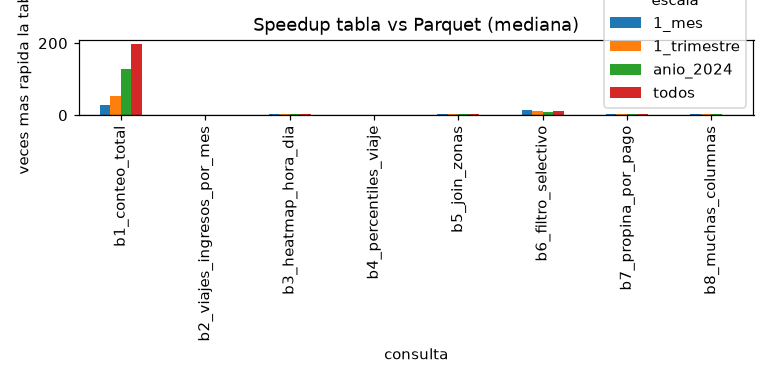
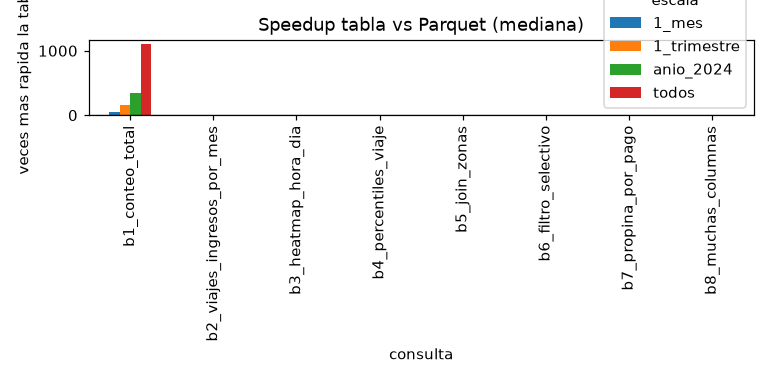
bench: re-ejecutar benchmark con 3 anios (121 M filas)
Se conserva la ejecucion 2024+2026 como *_2024_2026 para el Ejercicio 6.

diff --git a/docs/resultados/06_benchmark.md b/docs/resultados/06_benchmark.md
@@ -1,61 +1,61 @@
 # Resultados del benchmark Parquet vs tabla DuckDB
 
-Generado con `python scripts/benchmark.py --repeticiones 5` el 2026-10-07 02:06. DuckDB con 10 hilos. `primera_s` = primera ejecucion en una conexion nueva; `mediana_s` = mediana de las 5 repeticiones siguientes. `speedup` = mediana Parquet / mediana tabla.
+Generado con `python scripts/benchmark.py --repeticiones 5` el 2026-10-07 02:36. DuckDB con 4 hilos. `primera_s` = primera ejecucion en una conexion nueva; `mediana_s` = mediana de las 5 repeticiones siguientes. `speedup` = mediana Parquet / mediana tabla.
 
 ## Costo de materializar (por escala)
 
 | escala | archivos | filas | parquet_mib | tabla_mib | carga_s |
 |---|---|---|---|---|---|
-| 1_mes | 2 | 3,765,161 | 62.1 | 127.3 | 0.87 |
-| 1_trimestre | 6 | 11,199,059 | 184.8 | 386 | 1.8 |
-| anio_2024 | 24 | 41,829,938 | 676.1 | 1,406 | 6.16 |
-| todos | 40 | 71,870,407 | 1,171.7 | 2,418.5 | 10.05 |
+| 1_mes | 2 | 3,765,161 | 62.1 | 127.8 | 1.16 |
+| 1_trimestre | 6 | 11,199,059 | 184.8 | 386.3 | 2.6 |
+| anio_2024 | 24 | 41,829,938 | 676.1 | 1,452 | 10.65 |
+| todos | 64 | 121,184,384 | 1,977 | 4,184.8 | 31.59 |
 
 ## Tiempo por consulta, escala y estrategia
 
 | escala | filas | consulta | parquet_primera_s | parquet_mediana_s | tabla_primera_s | tabla_mediana_s | speedup |
 |---|---|---|---|---|---|---|---|
-| 1_mes | 3,765,161 | b1_conteo_total | 0.0046 | 0.0034 | 0.0004 | 0.0001 | 34 |
-| 1_mes | 3,765,161 | b2_viajes_ingresos_por_mes | 0.0137 | 0.0132 | 0.0147 | 0.0113 | 1.17 |
-| 1_mes | 3,765,161 | b3_heatmap_hora_dia | 0.1121 | 0.1163 | 0.046 | 0.0316 | 3.68 |
-| 1_mes | 3,765,161 | b4_percentiles_viaje | 0.2973 | 0.2648 | 0.1881 | 0.1775 | 1.49 |
-| 1_mes | 3,765,161 | b5_join_zonas | 0.1293 | 0.1311 | 0.0508 | 0.0322 | 4.07 |
-| 1_mes | 3,765,161 | b6_filtro_selectivo | 0.0363 | 0.0324 | 0.0112 | 0.0021 | 15.43 |
-| 1_mes | 3,765,161 | b7_propina_por_pago | 0.1275 | 0.1305 | 0.0567 | 0.0361 | 3.61 |
-| 1_mes | 3,765,161 | b8_muchas_columnas | 0.0803 | 0.0809 | 0.0516 | 0.024 | 3.37 |
-| 1_trimestre | 11,199,059 | b1_conteo_total | 0.0071 | 0.0062 | 0.0006 | 0.0001 | 62 |
-| 1_trimestre | 11,199,059 | b2_viajes_ingresos_por_mes | 0.0216 | 0.0217 | 0.0369 | 0.0291 | 0.75 |
-| 1_trimestre | 11,199,059 | b3_heatmap_hora_dia | 0.206 | 0.2111 | 0.1975 | 0.0901 | 2.34 |
-| 1_trimestre | 11,199,059 | b4_percentiles_viaje | 0.9426 | 0.8885 | 0.7067 | 0.7031 | 1.26 |
-| 1_trimestre | 11,199,059 | b5_join_zonas | 0.2146 | 0.2221 | 0.1499 | 0.0892 | 2.49 |
-| 1_trimestre | 11,199,059 | b6_filtro_selectivo | 0.0588 | 0.0566 | 0.0426 | 0.0055 | 10.29 |
-| 1_trimestre | 11,199,059 | b7_propina_por_pago | 0.2278 | 0.2252 | 0.1599 | 0.1036 | 2.17 |
-| 1_trimestre | 11,199,059 | b8_muchas_columnas | 0.1451 | 0.1376 | 0.1333 | 0.0668 | 2.06 |
-| anio_2024 | 41,829,938 | b1_conteo_total | 0.0186 | 0.0186 | 0.0015 | 0.0001 | 186 |
-| anio_2024 | 41,829,938 | b2_viajes_ingresos_por_mes | 0.0811 | 0.0662 | 0.1761 | 0.0805 | 0.82 |
-| anio_2024 | 41,829,938 | b3_heatmap_hora_dia | 0.6923 | 0.633 | 1.1819 | 0.3241 | 1.95 |
-| anio_2024 | 41,829,938 | b4_percentiles_viaje | 3.4215 | 3.2758 | 3.5221 | 3.0691 | 1.07 |
-| anio_2024 | 41,829,938 | b5_join_zonas | 0.708 | 0.6996 | 1.3043 | 0.3266 | 2.14 |
-| anio_2024 | 41,829,938 | b6_filtro_selectivo | 0.1755 | 0.1624 | 0.3963 | 0.0211 | 7.7 |
-| anio_2024 | 41,829,938 | b7_propina_por_pago | 0.7403 | 0.7527 | 1.0653 | 0.3895 | 1.93 |
-| anio_2024 | 41,829,938 | b8_muchas_columnas | 0.4567 | 0.4358 | 0.7469 | 0.2275 | 1.92 |
-| todos | 71,870,407 | b1_conteo_total | 0.0373 | 0.0345 | 0.0031 | 0.0002 | 172.5 |
-| todos | 71,870,407 | b2_viajes_ingresos_por_mes | 0.1318 | 0.1117 | 0.3534 | 0.1386 | 0.81 |
-| todos | 71,870,407 | b3_heatmap_hora_dia | 1.1821 | 1.1641 | 2.5437 | 0.6248 | 1.86 |
-| todos | 71,870,407 | b4_percentiles_viaje | 5.4398 | 4.9777 | 6.9937 | 4.4641 | 1.12 |
-| todos | 71,870,407 | b5_join_zonas | 1.6053 | 1.5779 | 2.9087 | 0.7749 | 2.04 |
-| todos | 71,870,407 | b6_filtro_selectivo | 0.3583 | 0.3242 | 1.0233 | 0.0297 | 10.92 |
-| todos | 71,870,407 | b7_propina_por_pago | 1.662 | 1.6396 | 2.4475 | 0.8721 | 1.88 |
-| todos | 71,870,407 | b8_muchas_columnas | 0.9418 | 0.9662 | 1.9721 | 0.5885 | 1.64 |
+| 1_mes | 3,765,161 | b1_conteo_total | 0.0044 | 0.0029 | 0.0004 | 0.0001 | 29 |
+| 1_mes | 3,765,161 | b2_viajes_ingresos_por_mes | 0.0107 | 0.0101 | 0.0217 | 0.0174 | 0.58 |
+| 1_mes | 3,765,161 | b3_heatmap_hora_dia | 0.1015 | 0.1097 | 0.0849 | 0.0689 | 1.59 |
+| 1_mes | 3,765,161 | b4_percentiles_viaje | 0.271 | 0.2594 | 0.2083 | 0.186 | 1.39 |
+| 1_mes | 3,765,161 | b5_join_zonas | 0.1316 | 0.1461 | 0.0924 | 0.069 | 2.12 |
+| 1_mes | 3,765,161 | b6_filtro_selectivo | 0.0278 | 0.0297 | 0.0143 | 0.0035 | 8.49 |
+| 1_mes | 3,765,161 | b7_propina_por_pago | 0.1298 | 0.1418 | 0.0966 | 0.0752 | 1.89 |
+| 1_mes | 3,765,161 | b8_muchas_columnas | 0.0889 | 0.085 | 0.0729 | 0.0504 | 1.69 |
+| 1_trimestre | 11,199,059 | b1_conteo_total | 0.011 | 0.01 | 0.0007 | 0.0001 | 100 |
+| 1_trimestre | 11,199,059 | b2_viajes_ingresos_por_mes | 0.0312 | 0.0312 | 0.0526 | 0.0421 | 0.74 |
+| 1_trimestre | 11,199,059 | b3_heatmap_hora_dia | 0.3198 | 0.3246 | 0.2603 | 0.1832 | 1.77 |
+| 1_trimestre | 11,199,059 | b4_percentiles_viaje | 0.9391 | 0.8615 | 0.7967 | 0.7315 | 1.18 |
+| 1_trimestre | 11,199,059 | b5_join_zonas | 0.3295 | 0.3844 | 0.2671 | 0.1838 | 2.09 |
+| 1_trimestre | 11,199,059 | b6_filtro_selectivo | 0.0742 | 0.0733 | 0.0423 | 0.0086 | 8.52 |
+| 1_trimestre | 11,199,059 | b7_propina_por_pago | 0.3716 | 0.3662 | 0.2689 | 0.2108 | 1.74 |
+| 1_trimestre | 11,199,059 | b8_muchas_columnas | 0.239 | 0.2322 | 0.219 | 0.1658 | 1.4 |
+| anio_2024 | 41,829,938 | b1_conteo_total | 0.0477 | 0.0413 | 0.0014 | 0.0001 | 413 |
+| anio_2024 | 41,829,938 | b2_viajes_ingresos_por_mes | 0.132 | 0.1303 | 0.2906 | 0.1702 | 0.77 |
+| anio_2024 | 41,829,938 | b3_heatmap_hora_dia | 1.4026 | 1.2898 | 1.5108 | 0.7307 | 1.77 |
+| anio_2024 | 41,829,938 | b4_percentiles_viaje | 4.3243 | 4.1444 | 4.3851 | 3.3467 | 1.24 |
+| anio_2024 | 41,829,938 | b5_join_zonas | 1.5921 | 1.5342 | 1.5124 | 0.7806 | 1.97 |
+| anio_2024 | 41,829,938 | b6_filtro_selectivo | 0.3606 | 0.3186 | 0.2764 | 0.0323 | 9.86 |
+| anio_2024 | 41,829,938 | b7_propina_por_pago | 1.6168 | 1.5353 | 1.4435 | 0.8699 | 1.76 |
+| anio_2024 | 41,829,938 | b8_muchas_columnas | 0.9905 | 0.9839 | 1.0481 | 0.5715 | 1.72 |
+| todos | 121,184,384 | b1_conteo_total | 0.1336 | 0.1245 | 0.0035 | 0.0001 | 1,245 |
+| todos | 121,184,384 | b2_viajes_ingresos_por_mes | 0.4036 | 0.3988 | 0.7822 | 0.4741 | 0.84 |
+| todos | 121,184,384 | b3_heatmap_hora_dia | 3.9261 | 3.7879 | 4.6161 | 2.111 | 1.79 |
+| todos | 121,184,384 | b4_percentiles_viaje | 11.4547 | 10.8354 | 13.7775 | 10.3904 | 1.04 |
+| todos | 121,184,384 | b5_join_zonas | 5.5642 | 4.786 | 6.11 | 2.2402 | 2.14 |
+| todos | 121,184,384 | b6_filtro_selectivo | 1.4679 | 0.9754 | 1.5764 | 0.1074 | 9.08 |
+| todos | 121,184,384 | b7_propina_por_pago | 5.055 | 4.4445 | 5.6054 | 2.4957 | 1.78 |
+| todos | 121,184,384 | b8_muchas_columnas | 3.0131 | 2.6241 | 3.8045 | 1.6539 | 1.59 |
 
 ## Resumen por escala (suma de medianas de las 8 consultas)
 
 | escala | filas | parquet_s | tabla_s | speedup | carga_s | ejecuciones_para_amortizar_carga |
 |---|---|---|---|---|---|---|
-| 1_mes | 3,765,161 | 0.773 | 0.315 | 2.45 | 0.87 | 1.9 |
-| 1_trimestre | 11,199,059 | 1.769 | 1.087 | 1.63 | 1.8 | 2.6 |
-| anio_2024 | 41,829,938 | 6.044 | 4.439 | 1.36 | 6.16 | 3.8 |
-| todos | 71,870,407 | 10.796 | 7.493 | 1.44 | 10.05 | 3 |
+| 1_mes | 3,765,161 | 0.785 | 0.471 | 1.67 | 1.16 | 3.7 |
+| 1_trimestre | 11,199,059 | 2.283 | 1.526 | 1.5 | 2.6 | 3.4 |
+| anio_2024 | 41,829,938 | 9.978 | 6.502 | 1.53 | 10.65 | 3.1 |
+| todos | 121,184,384 | 27.977 | 19.473 | 1.44 | 31.59 | 3.7 |
 
 Todas las consultas devolvieron el mismo resultado en ambas estrategias: si.
 

diff --git a/docs/resultados/06_benchmark_2024_2026.md b/docs/resultados/06_benchmark_2024_2026.md
@@ -1,0 +1,64 @@
+# Resultados del benchmark Parquet vs tabla DuckDB
+
+Generado con `python scripts/benchmark.py --repeticiones 5` el 2026-10-07 02:06. DuckDB con 10 hilos. `primera_s` = primera ejecucion en una conexion nueva; `mediana_s` = mediana de las 5 repeticiones siguientes. `speedup` = mediana Parquet / mediana tabla.
+
+## Costo de materializar (por escala)
+
+| escala | archivos | filas | parquet_mib | tabla_mib | carga_s |
+|---|---|---|---|---|---|
+| 1_mes | 2 | 3,765,161 | 62.1 | 127.3 | 0.87 |
+| 1_trimestre | 6 | 11,199,059 | 184.8 | 386 | 1.8 |
+| anio_2024 | 24 | 41,829,938 | 676.1 | 1,406 | 6.16 |
+| todos | 40 | 71,870,407 | 1,171.7 | 2,418.5 | 10.05 |
+
+## Tiempo por consulta, escala y estrategia
+
+| escala | filas | consulta | parquet_primera_s | parquet_mediana_s | tabla_primera_s | tabla_mediana_s | speedup |
+|---|---|---|---|---|---|---|---|
+| 1_mes | 3,765,161 | b1_conteo_total | 0.0046 | 0.0034 | 0.0004 | 0.0001 | 34 |
+| 1_mes | 3,765,161 | b2_viajes_ingresos_por_mes | 0.0137 | 0.0132 | 0.0147 | 0.0113 | 1.17 |
+| 1_mes | 3,765,161 | b3_heatmap_hora_dia | 0.1121 | 0.1163 | 0.046 | 0.0316 | 3.68 |
+| 1_mes | 3,765,161 | b4_percentiles_viaje | 0.2973 | 0.2648 | 0.1881 | 0.1775 | 1.49 |
+| 1_mes | 3,765,161 | b5_join_zonas | 0.1293 | 0.1311 | 0.0508 | 0.0322 | 4.07 |
+| 1_mes | 3,765,161 | b6_filtro_selectivo | 0.0363 | 0.0324 | 0.0112 | 0.0021 | 15.43 |
+| 1_mes | 3,765,161 | b7_propina_por_pago | 0.1275 | 0.1305 | 0.0567 | 0.0361 | 3.61 |
+| 1_mes | 3,765,161 | b8_muchas_columnas | 0.0803 | 0.0809 | 0.0516 | 0.024 | 3.37 |
+| 1_trimestre | 11,199,059 | b1_conteo_total | 0.0071 | 0.0062 | 0.0006 | 0.0001 | 62 |
+| 1_trimestre | 11,199,059 | b2_viajes_ingresos_por_mes | 0.0216 | 0.0217 | 0.0369 | 0.0291 | 0.75 |
+| 1_trimestre | 11,199,059 | b3_heatmap_hora_dia | 0.206 | 0.2111 | 0.1975 | 0.0901 | 2.34 |
+| 1_trimestre | 11,199,059 | b4_percentiles_viaje | 0.9426 | 0.8885 | 0.7067 | 0.7031 | 1.26 |
+| 1_trimestre | 11,199,059 | b5_join_zonas | 0.2146 | 0.2221 | 0.1499 | 0.0892 | 2.49 |
+| 1_trimestre | 11,199,059 | b6_filtro_selectivo | 0.0588 | 0.0566 | 0.0426 | 0.0055 | 10.29 |
+| 1_trimestre | 11,199,059 | b7_propina_por_pago | 0.2278 | 0.2252 | 0.1599 | 0.1036 | 2.17 |
+| 1_trimestre | 11,199,059 | b8_muchas_columnas | 0.1451 | 0.1376 | 0.1333 | 0.0668 | 2.06 |
+| anio_2024 | 41,829,938 | b1_conteo_total | 0.0186 | 0.0186 | 0.0015 | 0.0001 | 186 |
+| anio_2024 | 41,829,938 | b2_viajes_ingresos_por_mes | 0.0811 | 0.0662 | 0.1761 | 0.0805 | 0.82 |
+| anio_2024 | 41,829,938 | b3_heatmap_hora_dia | 0.6923 | 0.633 | 1.1819 | 0.3241 | 1.95 |
+| anio_2024 | 41,829,938 | b4_percentiles_viaje | 3.4215 | 3.2758 | 3.5221 | 3.0691 | 1.07 |
+| anio_2024 | 41,829,938 | b5_join_zonas | 0.708 | 0.6996 | 1.3043 | 0.3266 | 2.14 |
+| anio_2024 | 41,829,938 | b6_filtro_selectivo | 0.1755 | 0.1624 | 0.3963 | 0.0211 | 7.7 |
+| anio_2024 | 41,829,938 | b7_propina_por_pago | 0.7403 | 0.7527 | 1.0653 | 0.3895 | 1.93 |
+| anio_2024 | 41,829,938 | b8_muchas_columnas | 0.4567 | 0.4358 | 0.7469 | 0.2275 | 1.92 |
+| todos | 71,870,407 | b1_conteo_total | 0.0373 | 0.0345 | 0.0031 | 0.0002 | 172.5 |
+| todos | 71,870,407 | b2_viajes_ingresos_por_mes | 0.1318 | 0.1117 | 0.3534 | 0.1386 | 0.81 |
+| todos | 71,870,407 | b3_heatmap_hora_dia | 1.1821 | 1.1641 | 2.5437 | 0.6248 | 1.86 |
+| todos | 71,870,407 | b4_percentiles_viaje | 5.4398 | 4.9777 | 6.9937 | 4.4641 | 1.12 |
+| todos | 71,870,407 | b5_join_zonas | 1.6053 | 1.5779 | 2.9087 | 0.7749 | 2.04 |
+| todos | 71,870,407 | b6_filtro_selectivo | 0.3583 | 0.3242 | 1.0233 | 0.0297 | 10.92 |
+| todos | 71,870,407 | b7_propina_por_pago | 1.662 | 1.6396 | 2.4475 | 0.8721 | 1.88 |
+| todos | 71,870,407 | b8_muchas_columnas | 0.9418 | 0.9662 | 1.9721 | 0.5885 | 1.64 |
+
+## Resumen por escala (suma de medianas de las 8 consultas)
+
+| escala | filas | parquet_s | tabla_s | speedup | carga_s | ejecuciones_para_amortizar_carga |
+|---|---|---|---|---|---|---|
+| 1_mes | 3,765,161 | 0.773 | 0.315 | 2.45 | 0.87 | 1.9 |
+| 1_trimestre | 11,199,059 | 1.769 | 1.087 | 1.63 | 1.8 | 2.6 |
+| anio_2024 | 41,829,938 | 6.044 | 4.439 | 1.36 | 6.16 | 3.8 |
+| todos | 71,870,407 | 10.796 | 7.493 | 1.44 | 10.05 | 3 |
+
+Todas las consultas devolvieron el mismo resultado en ambas estrategias: si.
+
+![tiempos](../img/bench_tiempos_2024_2026.png)
+
+![speedup](../img/bench_speedup_2024_2026.png)

diff --git a/docs/06_benchmark.md b/docs/06_benchmark.md
@@ -2,8 +2,9 @@
 
 - **Consultas del benchmark:** [`sql/06_benchmark.sql`](../sql/06_benchmark.sql) (6.3, 6.8)
 - **Script:** [`scripts/benchmark.py`](../scripts/benchmark.py) · **Base materializada:** [`scripts/build_db.py`](../scripts/build_db.py)
-- **Resultados completos:** [`docs/resultados/06_benchmark.md`](resultados/06_benchmark.md) y
-  [`06_benchmark_resultados.csv`](resultados/06_benchmark_resultados.csv)
+- **Resultados completos:** [`docs/resultados/06_benchmark_2024_2026.md`](resultados/06_benchmark_2024_2026.md) y
+  [`06_benchmark_resultados_2024_2026.csv`](resultados/06_benchmark_resultados_2024_2026.csv)
+  (la ejecución final con 3 años está en [`06_benchmark.md`](resultados/06_benchmark.md))
 - **Notebook:** [`notebooks/04_benchmark.ipynb`](../notebooks/04_benchmark.ipynb)
 
 ```bash
@@ -24,7 +25,7 @@ docker exec lab8-lab python scripts/benchmark.py --repeticiones 5  # 6.4 - 6.7
 | Equivalencia (validez) | **El mismo texto SQL** se ejecuta en ambas estrategias; ambas fuentes tienen exactamente las mismas filas y el script compara los resultados: 32/32 combinaciones devolvieron el mismo resultado |
 | 6.5 Medición | Conexión nueva por consulta y estrategia: 1 ejecución "primera" + 5 repeticiones; se reporta la **mediana** (robusta a ruido) y la primera ejecución por separado |
 | 6.6 Escalas | `1_mes` (ene-2026, 3.8 M filas), `1_trimestre` (ene-mar 2026, 11.2 M), `anio_2024` (41.8 M), `todos` (71.9 M) |
-| Ambiente | Contenedor `lab8-lab`, DuckDB 1.5.5, 10 hilos, ~7.6 GB RAM, disco SSD (montaje virtiofs) |
+| Ambiente | Contenedor `lab8-lab`, DuckDB 1.5.5, 10 hilos, ~7.6 GB RAM, disco SSD (montaje virtiofs). En la re-ejecución con 3 años (Ej. 8) se usaron 4 hilos y `memory_limit = 3GB` para ambas estrategias: con 121 M de filas y 10 hilos el contenedor se quedaba sin memoria |
 
 ## 6.7 Resultados
 
@@ -59,8 +60,8 @@ docker exec lab8-lab python scripts/benchmark.py --repeticiones 5  # 6.4 - 6.7
 | anio_2024 | 41.8 M | 6.04 s | 4.44 s | ×1.36 | 3.8 |
 | todos | 71.9 M | 10.80 s | 7.49 s | ×1.44 | 3.0 |
 
-![Tiempos](img/bench_tiempos.png)
-![Speedup](img/bench_speedup.png)
+![Tiempos](img/bench_tiempos_2024_2026.png)
+![Speedup](img/bench_speedup_2024_2026.png)
 
 ## 6.9 Análisis de las diferencias
 
